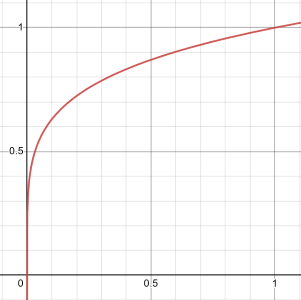
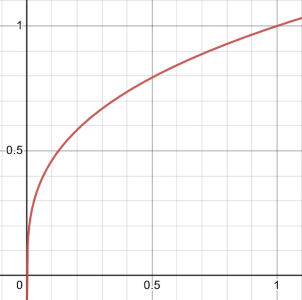
Updated readme graph

diff --git a/signwriting_evaluation/metrics/symbol_distance.md b/signwriting_evaluation/metrics/symbol_distance.md
@@ -18,10 +18,10 @@ The evaluation process is built on three main stages, each with its own intent a
 weights for different symbol differences.
 2. Distance Normalization: Normalizes distance values using the following non-linear function for better representation.
 
-![Graph of f(x) = x^{\frac{1}{5}}](/assets/equations/graph1.png)
+![Graph of f(x) = x^{\frac{1}{3}}](/assets/equations/graph1.png)
 
 $$
-f(x) = x^{\frac{1}{5}}
+f(x) = x^{\frac{1}{3}}
 $$
 
 3. Matching and Grading: Utilizes symbol distances to generalize similarity for entire signs. The Hungarian algorithm
